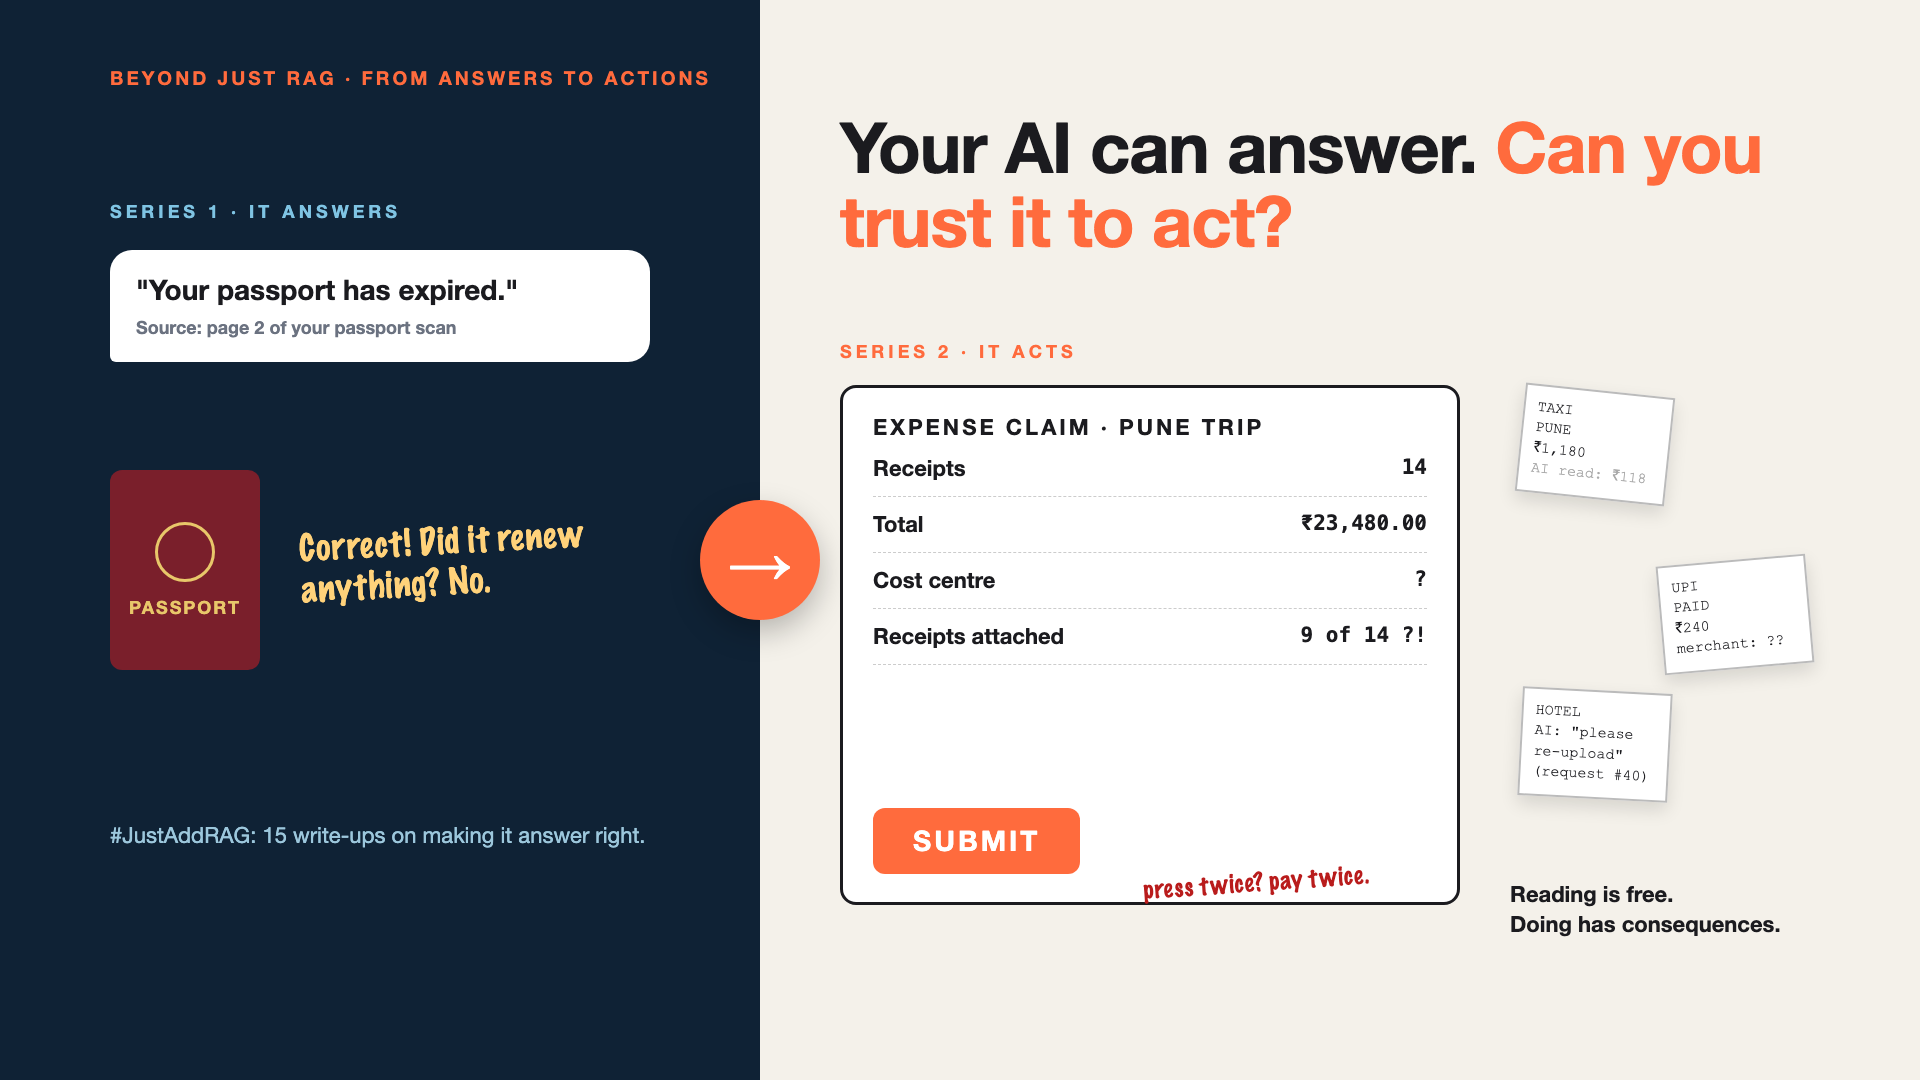
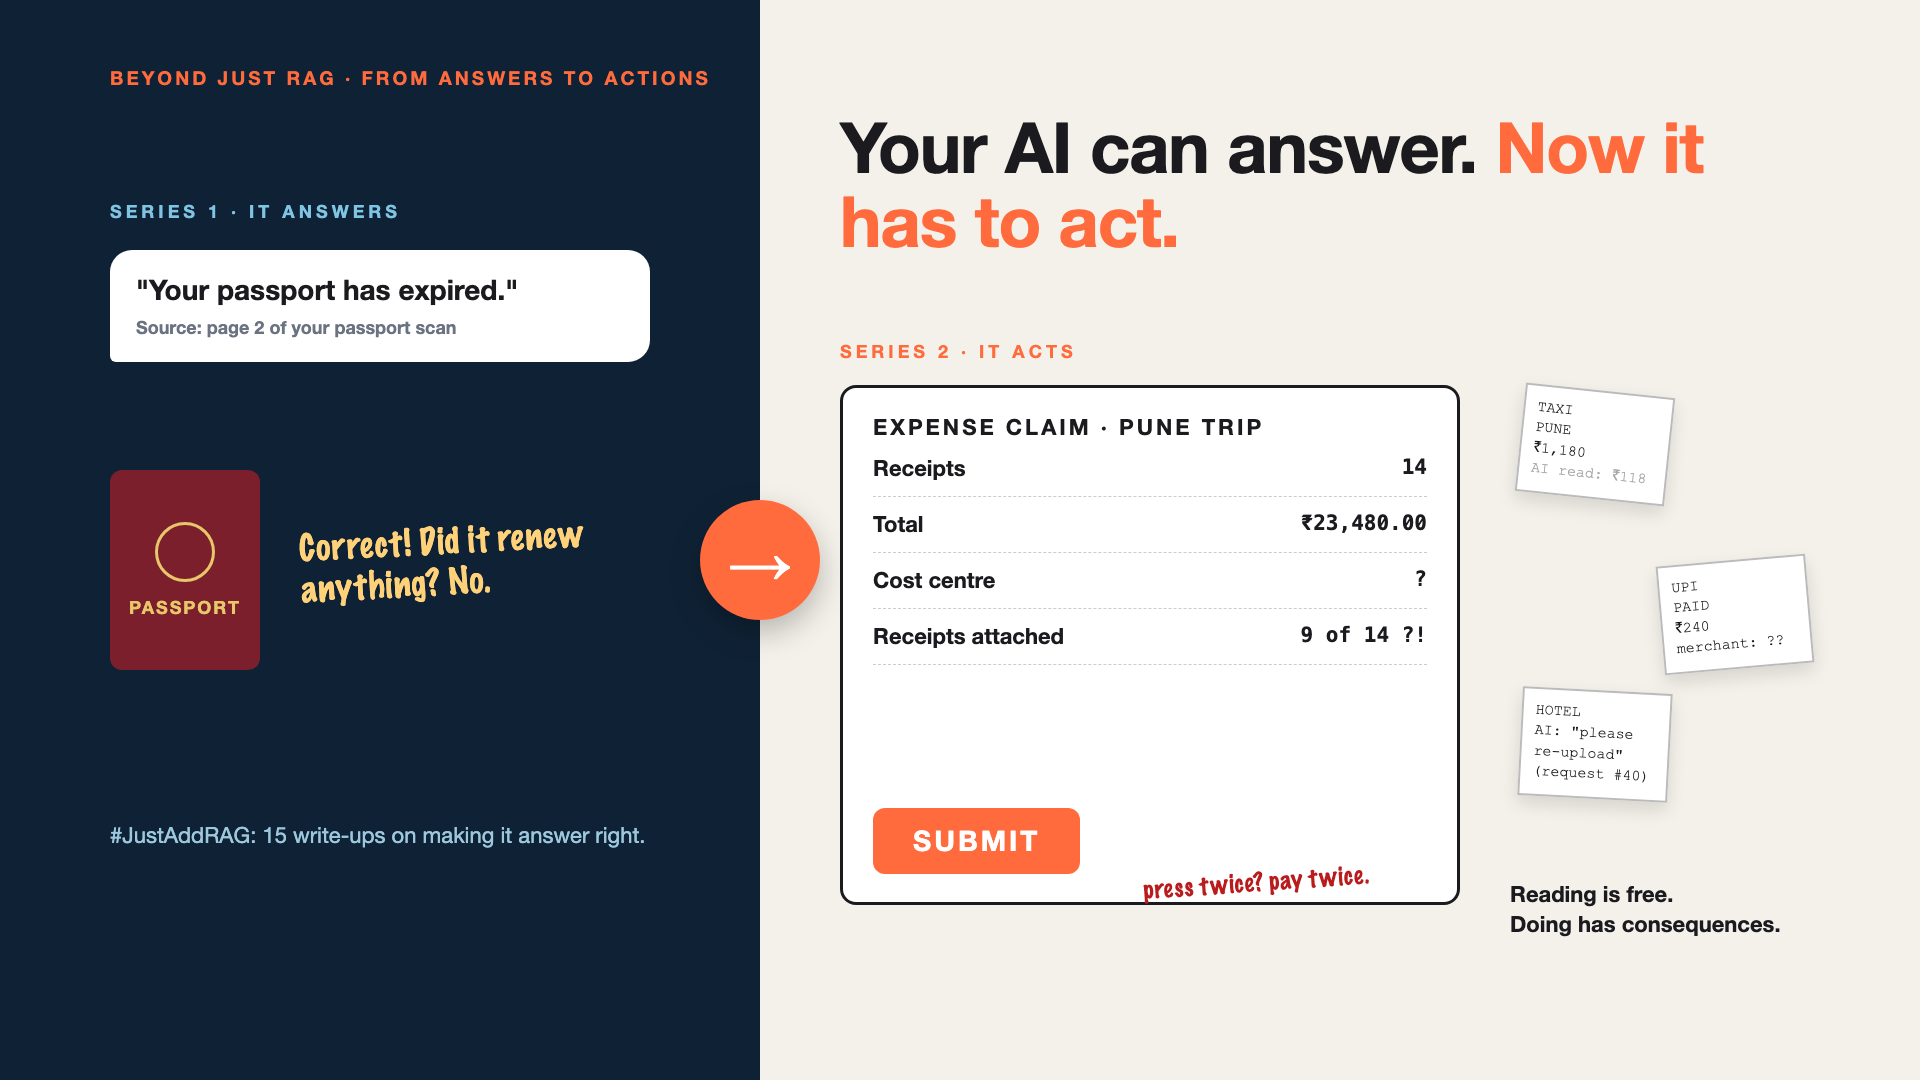
Series 2 curtain raiser: lead with acting (title, cover, post)

Changed region(s): [[0.4375, 0.1833, 0.6875, 0.2444], [0.7812, 0.0917, 0.9375, 0.1833]]

diff --git a/02-answers-to-actions/README.md b/02-answers-to-actions/README.md
@@ -20,7 +20,7 @@ Fewer, stronger write-ups (user rule): every topic must be solid, catchy and uni
 
 | # | Title | The hook | What it covers | Example moment | Status |
 |---|---|---|---|---|---|
-| 1 | [Your AI Can Answer. Can You Trust It to Act?](01-curtain-raiser.md) | Reading is free. Doing has consequences. | Curtain raiser: from answers to actions, bridging from #JustAddRAG | The AI totals 14 receipts correctly, then is asked to file the claim | Draft for review |
+| 1 | [Your AI Can Answer. Now It Has to Act.](01-curtain-raiser.md) | Reading is free. Doing has consequences. | Curtain raiser: from answers to actions, bridging from #JustAddRAG | The AI totals 14 receipts correctly, then is asked to file the claim | Draft for review |
 | 2 | The Receipt Says ₹1,180. Or Was It ₹118? | "About right" in a chat is wrong in a form. | Exact data from messy receipts; flag it, don't guess | A dropped zero; a UPI screenshot with no merchant name | Planned |
 | 3 | It Filed the Same Claim Twice | A timeout isn't a "no". | Safe retries, checking status before trying again (idempotency) | The claims system times out; the AI submits again; finance pays twice | Planned |
 | 4 | The Claim Was Filed. The Receipts Weren't Attached. | Half-done is worse than not done. | A step fails halfway: undo, resume, or finish | Claim submitted, upload of 14 receipts fails at number 9 | Planned |

diff --git a/02-answers-to-actions/01-curtain-raiser.md b/02-answers-to-actions/01-curtain-raiser.md
@@ -1,4 +1,4 @@
-# 1. Your AI Can Answer. Can You Trust It to Act? | From Answers to Actions
+# 1. Your AI Can Answer. Now It Has to Act. | From Answers to Actions
 
 ![Cover](images/01-curtain-raiser-cover.png)
 
@@ -58,9 +58,11 @@ Follow me for the next one. What's the most painful expense claim you've ever fi
 **Post text (copy and paste):**
 
 ```
-Your AI can answer. Can you trust it to act?
+Your AI can answer. Now it has to act.
 
 In my #JustAddRAG series, my AI said: "Your passport has expired." Correct. It didn't renew anything.
+
+Answering is reading. Acting is doing: filling forms, pressing submit, moving money.
 
 Now picture AI filing your expense claim:
 • It reads ₹1,180 as ₹118
@@ -80,7 +82,7 @@ Missed the first series? Start with "Why does Just add RAG sound like 2 weeks bu
 ```
 📌 Beyond Just RAG: From Answers to Actions
 
-1. Your AI can answer. Can you trust it to act? (you're here)
+1. Your AI can answer. Now it has to act. (you're here)
 2. The receipt says ₹1,180. Or was it ₹118? (next)
 
 New here? #JustAddRAG starts here: https://www.linkedin.com/pulse/why-does-just-add-rag-sound-like-2-weeks-take-6-months-arpit-jain-l4kkf/
